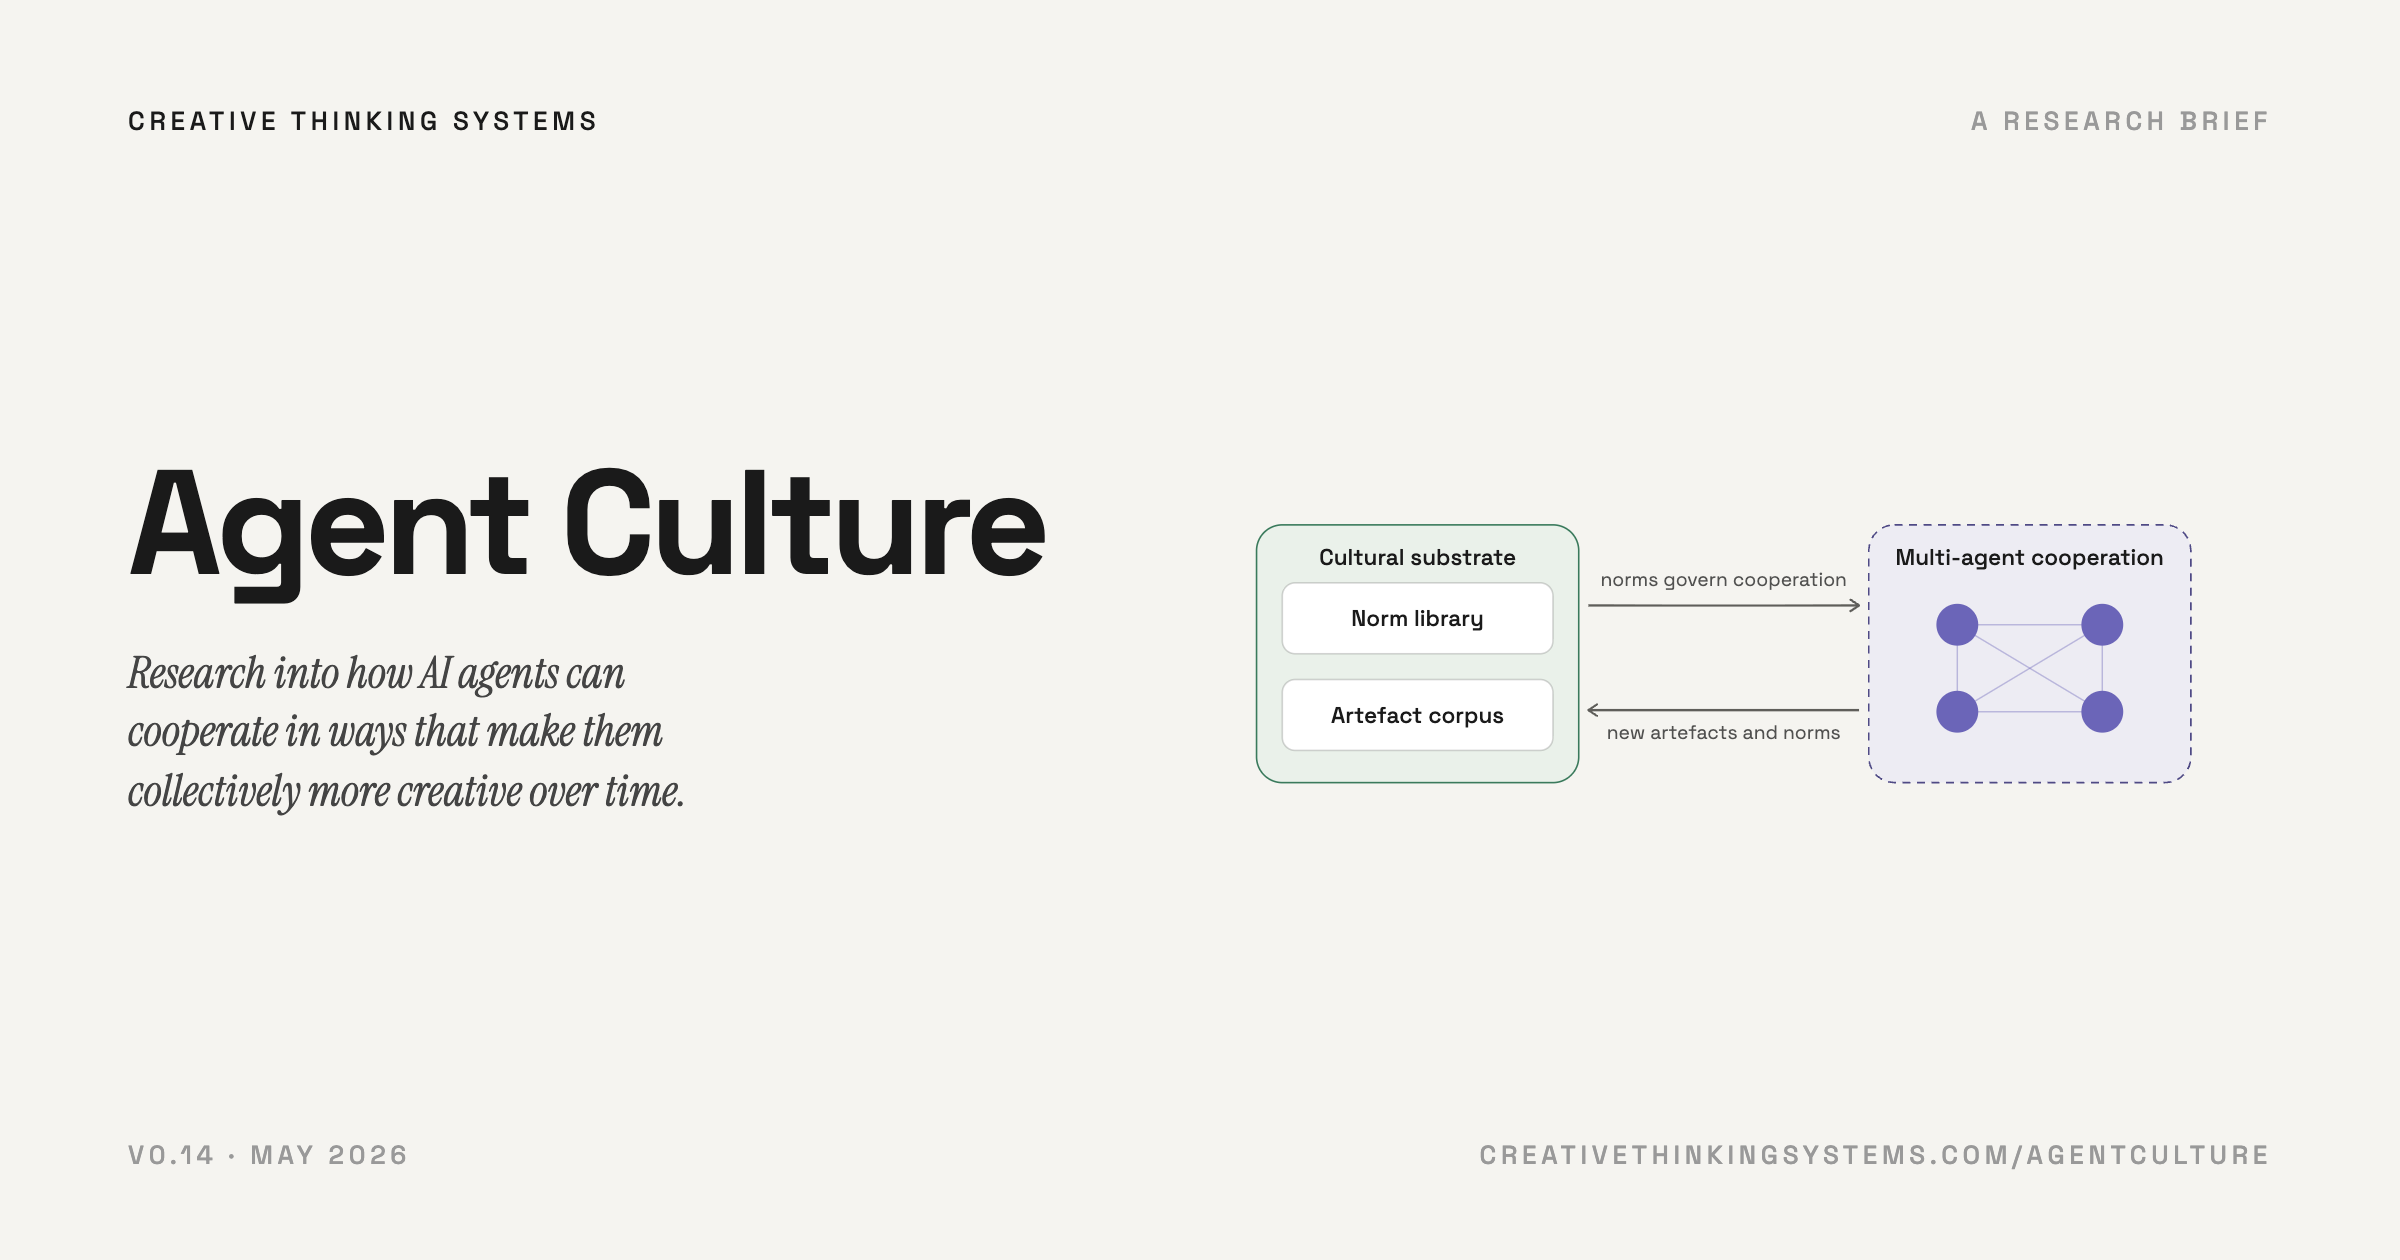
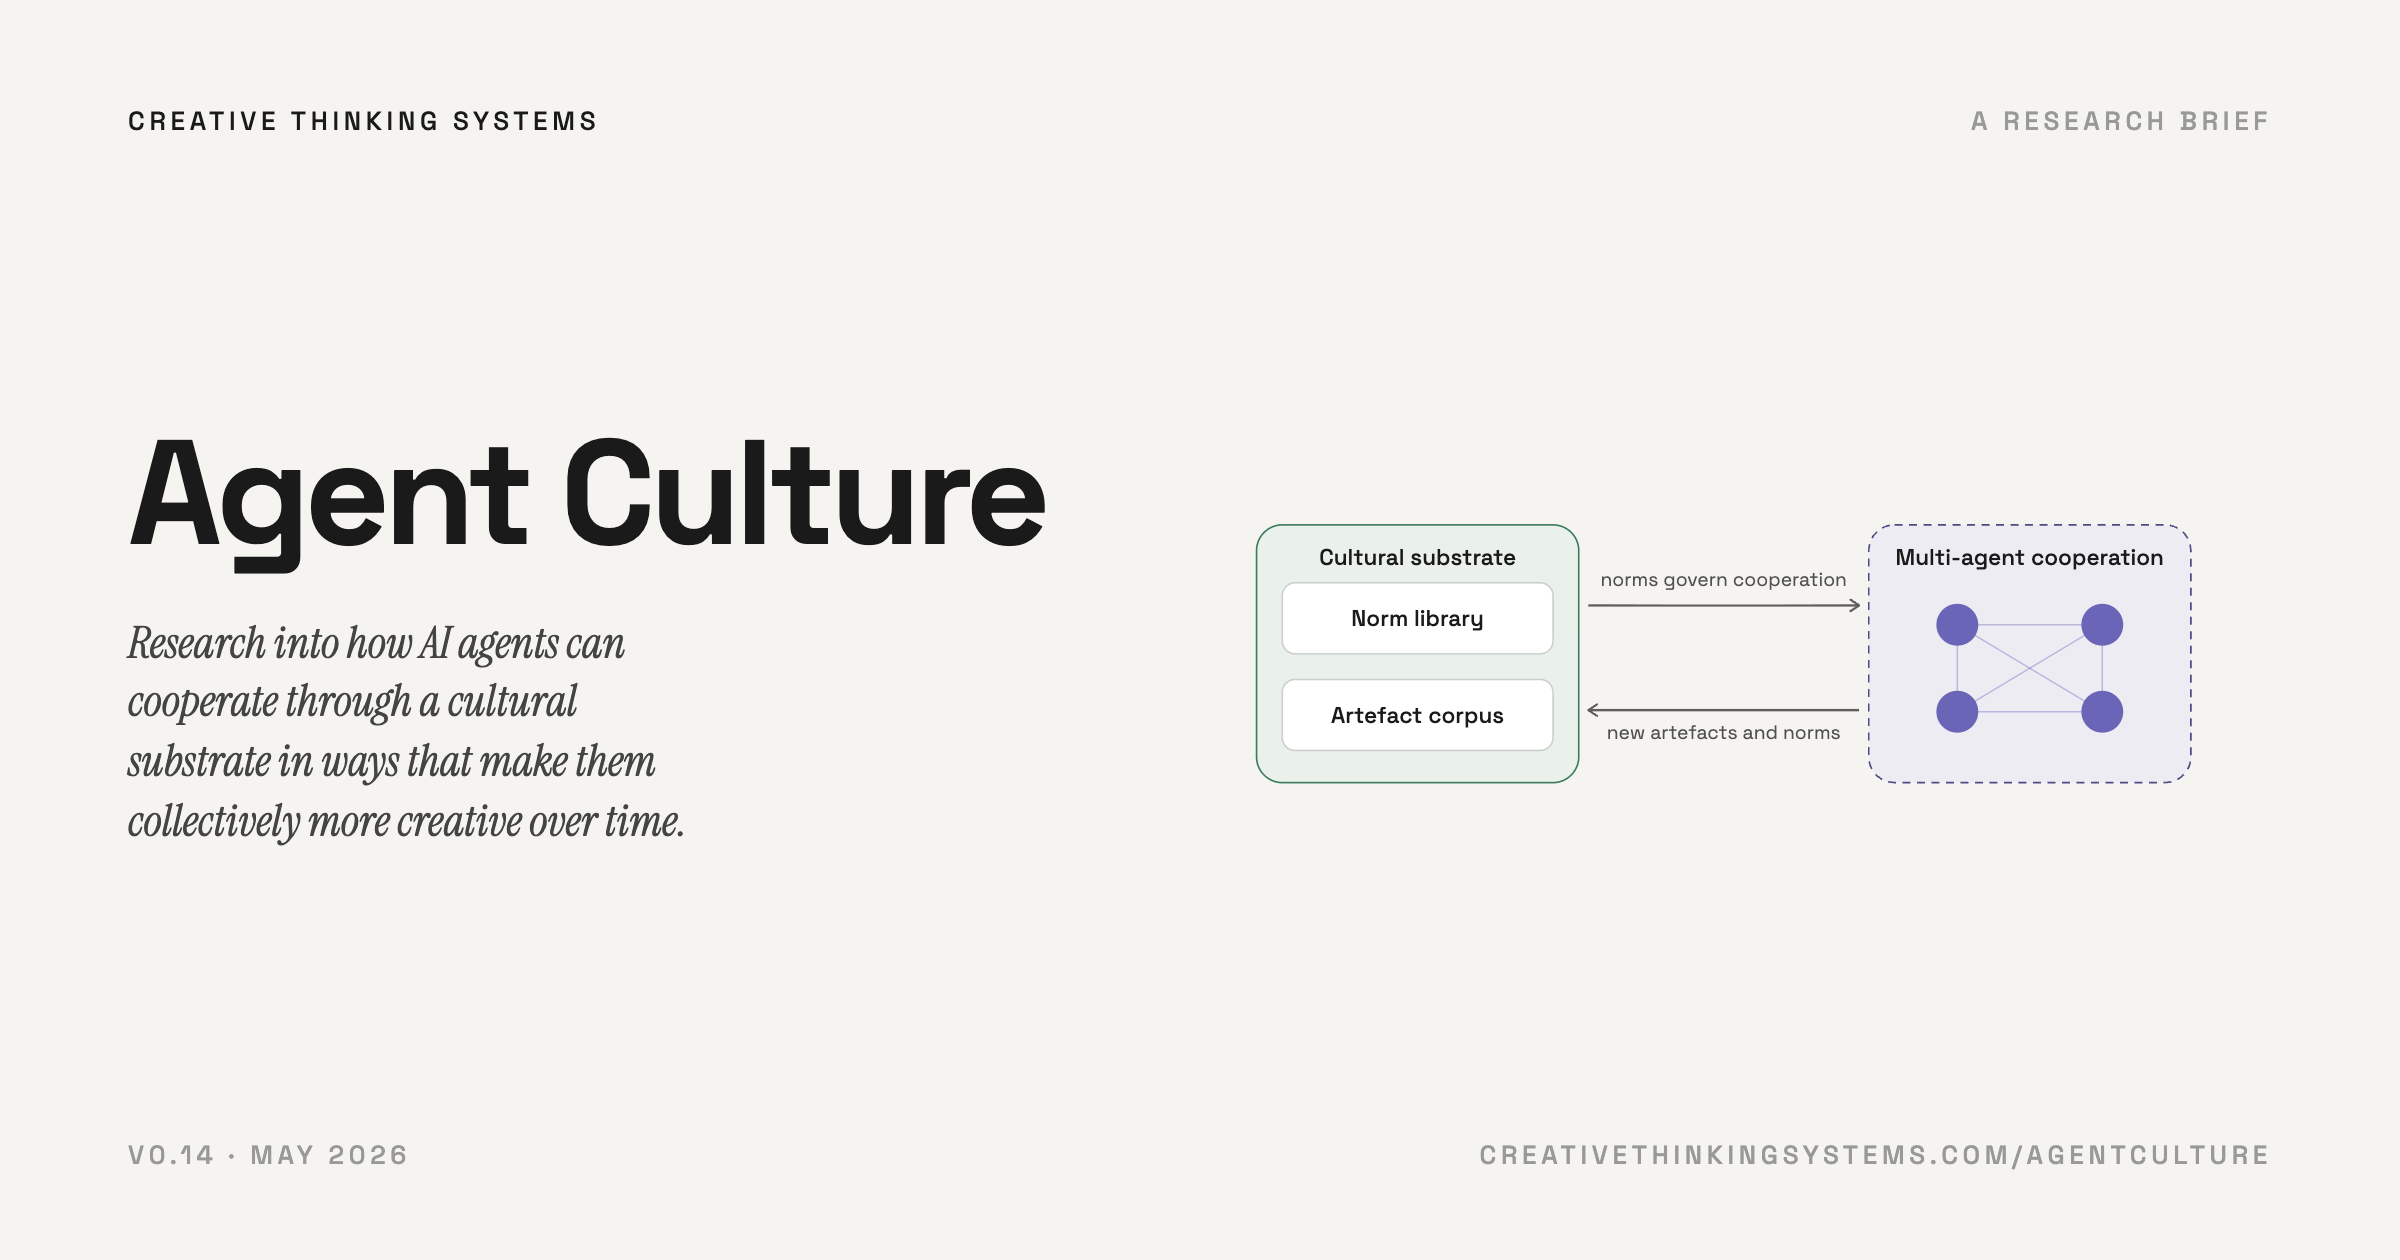
Add 'through a cultural substrate' to Agent Culture description
Updates the homepage Our Work blurb, the Agent Culture page hero
subheader, the meta/OG/Twitter descriptions, and the OG card
subtitle so all carriers of the one-line positioning name the
mechanism (cultural substrate) explicitly.

Changed region(s): [[0.0312, 0.3405, 0.4375, 0.681]]

diff --git a/agentculture/index.html b/agentculture/index.html
@@ -4,12 +4,12 @@
     <meta charset="UTF-8">
     <meta name="viewport" content="width=device-width, initial-scale=1.0">
     <title>Agent Culture: A Research Brief | Creative Thinking Systems</title>
-    <meta name="description" content="Research into how AI agents can cooperate in ways that make them collectively more creative over time. A working research brief from Creative Thinking Systems.">
+    <meta name="description" content="Research into how AI agents can cooperate through a cultural substrate in ways that make them collectively more creative over time. A working research brief from Creative Thinking Systems.">
 
     <link rel="canonical" href="https://creativethinkingsystems.com/agentculture/">
 
     <meta property="og:title" content="Agent Culture: A Research Brief">
-    <meta property="og:description" content="Research into how AI agents can cooperate in ways that make them collectively more creative over time. A working research brief from Creative Thinking Systems.">
+    <meta property="og:description" content="Research into how AI agents can cooperate through a cultural substrate in ways that make them collectively more creative over time. A working research brief from Creative Thinking Systems.">
     <meta property="og:url" content="https://creativethinkingsystems.com/agentculture/">
     <meta property="og:type" content="article">
     <meta property="og:image" content="https://creativethinkingsystems.com/agentculture/agent-culture-og.png">
@@ -18,7 +18,7 @@
     <meta property="og:image:alt" content="The Agent Culture loop. The substrate governs and seeds a session of cooperating agents; the cooperation feeds new artefacts and revised norms back into the substrate.">
     <meta name="twitter:card" content="summary_large_image">
     <meta name="twitter:title" content="Agent Culture: A Research Brief">
-    <meta name="twitter:description" content="Research into how AI agents can cooperate in ways that make them collectively more creative over time.">
+    <meta name="twitter:description" content="Research into how AI agents can cooperate through a cultural substrate in ways that make them collectively more creative over time.">
     <meta name="twitter:image" content="https://creativethinkingsystems.com/agentculture/agent-culture-og.png">
 
     <script type="application/ld+json">
@@ -560,7 +560,7 @@
             <p class="hero__label reveal">A Research Brief</p>
             <h1 class="hero__headline reveal">Agent Culture</h1>
             <p class="hero__meta reveal">v0.14<span>|</span>May 2026<span>|</span>Creative Thinking Systems</p>
-            <p class="hero__sub reveal">Research into how AI agents can cooperate in ways that make them collectively more creative over time.</p>
+            <p class="hero__sub reveal">Research into how AI agents can cooperate through a cultural substrate in ways that make them collectively more creative over time.</p>
 
             <aside class="status-callout reveal" aria-label="Research status">
                 <span class="status-callout__label">Status</span>

diff --git a/index.html b/index.html
@@ -857,7 +857,7 @@
                     <strong>Creative Value Monitor:</strong> Measuring the economic value of creative works to AI systems, across training inputs and generated outputs. Developing a valuation methodology (the Latent Value Index) and building toward a collecting society model for the AI age.
                 </li>
                 <li class="offering reveal">
-                    <strong><a href="./agentculture" class="offering__link">Agent Culture</a>:</strong> Research into how AI agents can cooperate to make them collectively more creative over time.
+                    <strong><a href="./agentculture" class="offering__link">Agent Culture</a>:</strong> Research into how AI agents can cooperate through a cultural substrate in ways that make them collectively more creative over time.
                 </li>
             </ul>
         </div>
